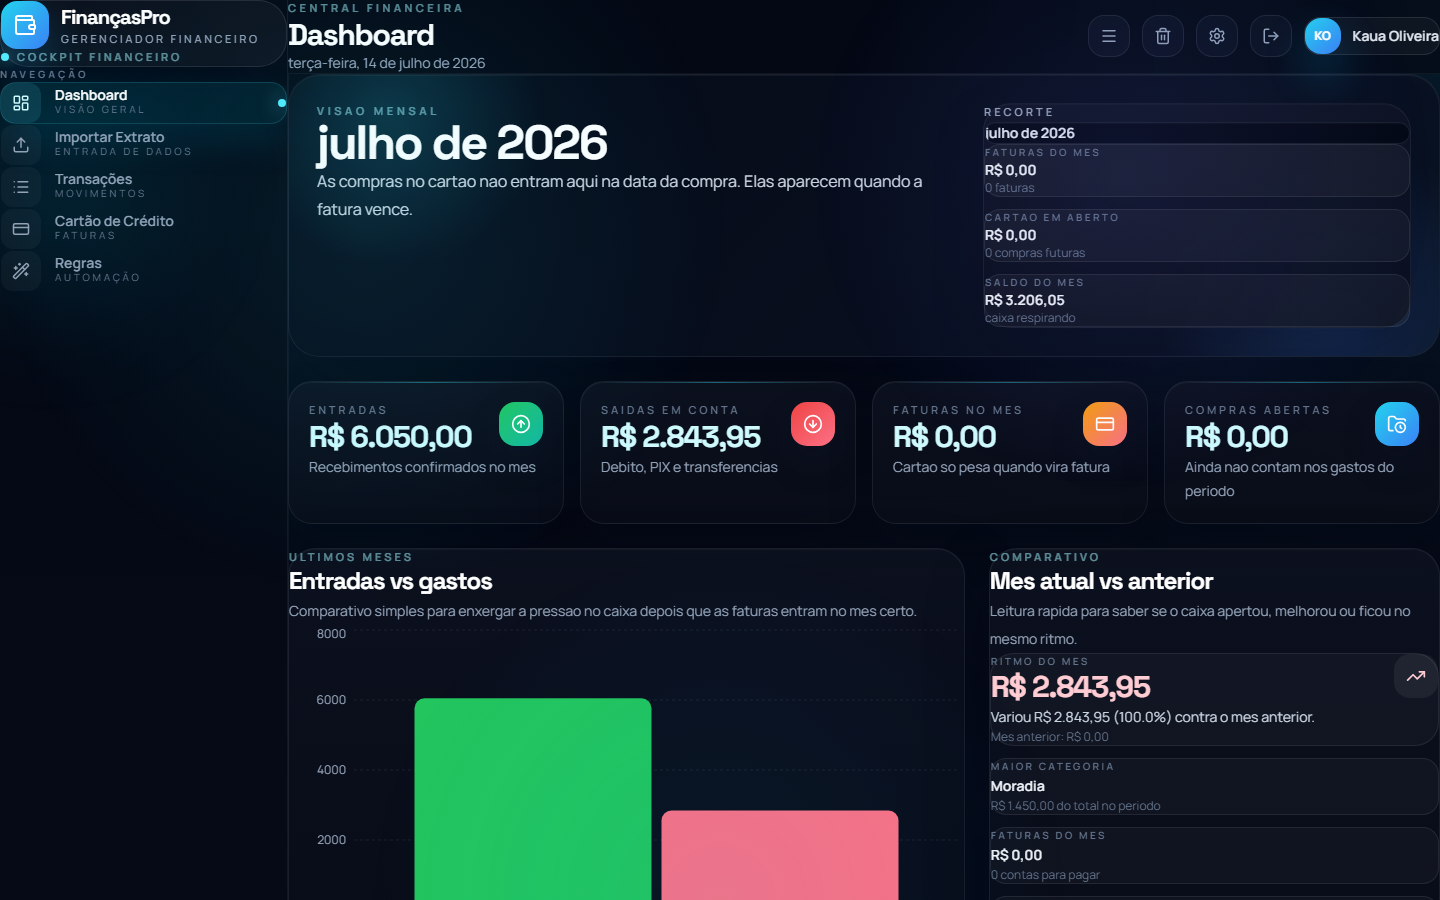
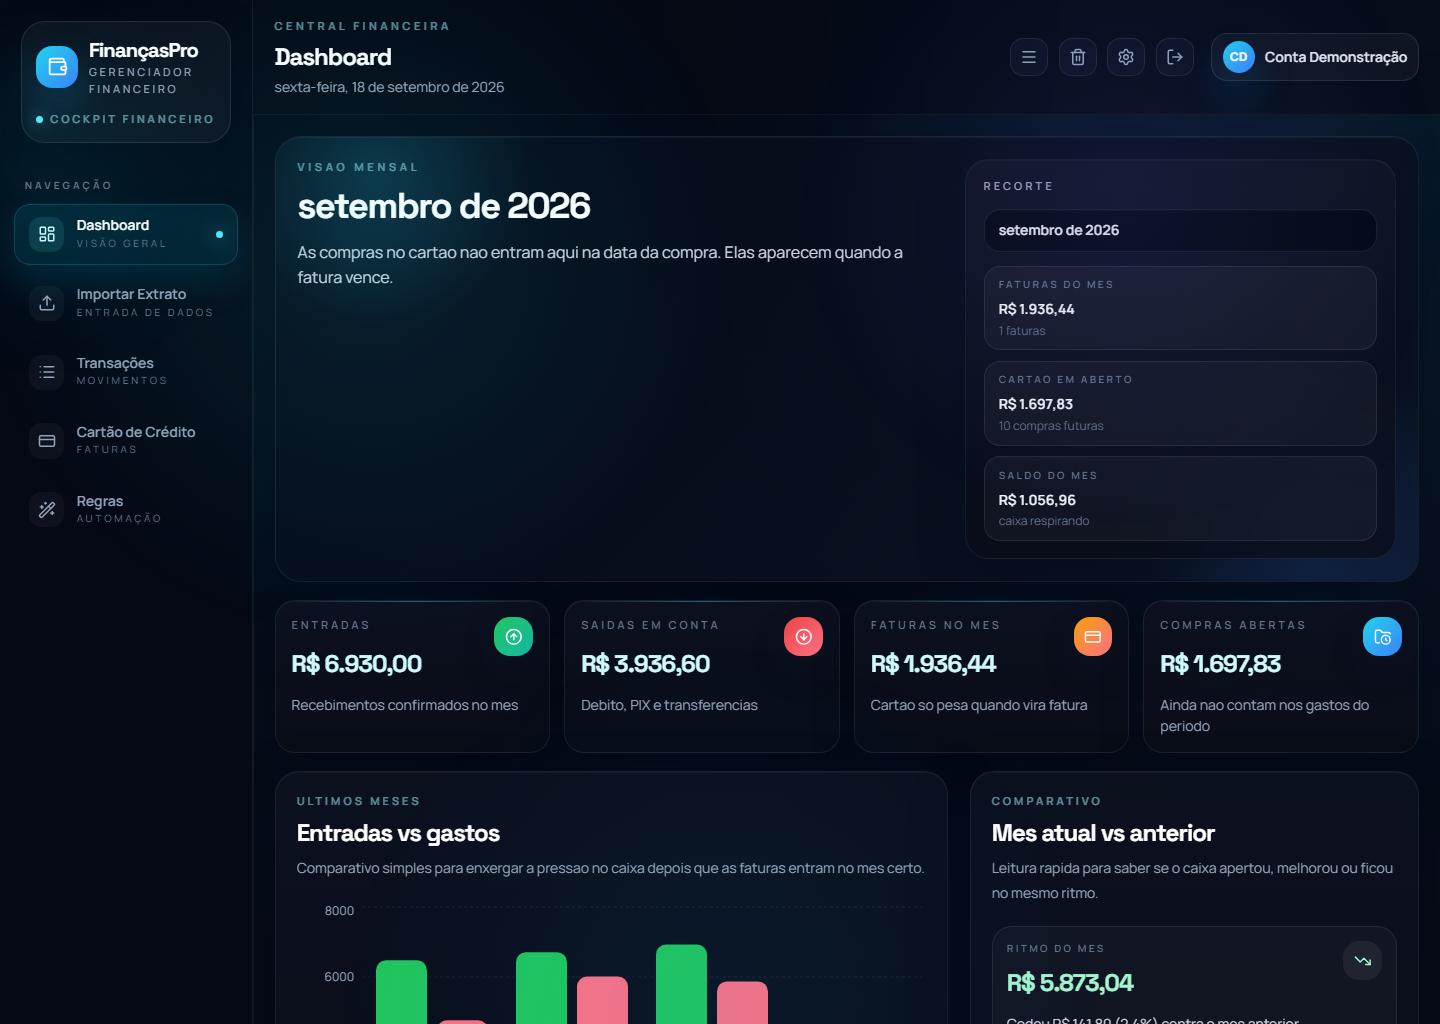
docs: gerador repetivel das capturas do README
As imagens eram de julho de 2026: mostravam o espacamento zerado, a densidade
antiga, o nome de uma conta real e nenhum sinal da importacao de fatura nem do
kit de recuperacao.

Agora `npm run screenshots` refaz docs/screenshots a partir do app atual, pela
interface: cadastra a conta de demonstracao, le as 12 palavras na tela e confirma
as 3 que o app pede, importa o extrato de exemplo, cadastra o cartao e importa a
fatura de exemplo. Se algum desses fluxos quebrar, o comando falha em vez de
gravar uma imagem errada.

Os dados de e2e-screenshots/exemplos sao inventados (comerciantes, valores e
datas), e o relogio do navegador fica preso em 18/09/2026 para as capturas nao
mudarem de mes a cada rodada e para a fatura de agosto aparecer fechada com as
compras de setembro ainda em aberto.

Fora da CI e de `npm run test:e2e`: config propria em
playwright.screenshots.config.ts, com viewport de 1440x1024 e tema escuro.
Entra tambem recovery-kit.png, com uma linha nova nos dois READMEs.

diff --git a/e2e-screenshots/capturas.spec.ts b/e2e-screenshots/capturas.spec.ts
@@ -1,0 +1,180 @@
+import { test, expect } from '@playwright/test';
+import type { Locator, Page } from '@playwright/test';
+import { dirname, join } from 'node:path';
+import { fileURLToPath } from 'node:url';
+
+/**
+ * Gerador das capturas de tela do README (docs/screenshots).
+ *
+ * Roda só com `npm run screenshots`: fica fora do `npm run test:e2e` e da CI.
+ * O fluxo é o mesmo de um usuário real — cadastra a conta de demonstração,
+ * confirma as palavras do kit, importa o extrato e a fatura de exemplo — então
+ * as imagens provam que os fluxos funcionam, não só que as telas renderizam.
+ *
+ * Todos os dados são fictícios (e2e-screenshots/exemplos). A conta é criada do
+ * zero no navegador do Playwright e some junto com ele.
+ */
+
+const AQUI = dirname(fileURLToPath(import.meta.url));
+const EXEMPLOS = join(AQUI, 'exemplos');
+const SAIDA = join(AQUI, '..', 'docs', 'screenshots');
+
+const EXTRATO = join(EXEMPLOS, 'extrato-neon-exemplo.csv');
+const FATURA = join(EXEMPLOS, 'fatura-neon-mais-exemplo.csv');
+
+// Data fixa: o app olha "hoje" para dizer se a fatura já fechou, e as capturas
+// não podem mudar de mês a cada rodada. Com o relógio preso, rodar o gerador
+// hoje ou daqui a um ano dá a mesma imagem.
+const HOJE = new Date('2026-09-18T12:00:00-03:00');
+// Mês mostrado nos painéis: tem fatura fechada (ciclo de agosto) e compras que
+// ainda não viraram gasto (ciclo de setembro, que só vence em outubro).
+const MES_EM_FOCO = '2026-09';
+
+const CONTA = 'Conta Demonstração';
+const SENHA = 'demonstracao-2026';
+
+const CARTAO = {
+  nome: 'Neon Mais',
+  fechamento: '28',
+  vencimento: '8',
+};
+
+/** Lê as 12 palavras na tela e digita as 3 que o app pede. */
+async function confirmarPalavrasDoKit(page: Page) {
+  await expect(page.locator('[data-kit-word]')).toHaveCount(12, { timeout: 15_000 });
+  const palavras = await page.locator('[data-kit-word]').allInnerTexts();
+
+  await page.getByRole('button', { name: /confirmar palavras/i }).click();
+
+  const campos = page.getByRole('textbox', { name: /palavra nº/i });
+  await expect(campos).toHaveCount(3);
+  for (const campo of await campos.all()) {
+    const posicao = Number(await campo.getAttribute('data-position'));
+    await campo.fill(palavras[posicao - 1]);
+  }
+  await page.getByRole('button', { name: /confirmar e entrar/i }).click();
+}
+
+async function irParaAba(page: Page, nome: RegExp) {
+  await page.locator('aside').getByRole('button', { name: nome }).click();
+}
+
+/**
+ * Rola até o bloco começar logo abaixo do cabeçalho do app.
+ *
+ * `scrollIntoView` sozinho erra por dois motivos: a página tem duas áreas
+ * roláveis aninhadas, e medir um cartão no meio da animação de entrada devolve
+ * a posição de quem ainda está crescendo. Por isso espera a animação, mede e
+ * corrige até assentar.
+ */
+async function trazerParaOTopo(alvo: Locator, folga = 16) {
+  await alvo.page().waitForTimeout(1_200);
+  await alvo.evaluate((elemento, folgaPx) => {
+    elemento.scrollIntoView({ block: 'start' });
+
+    for (let tentativa = 0; tentativa < 4; tentativa += 1) {
+      const cabecalho = document.querySelector('header');
+      const limite = (cabecalho?.getBoundingClientRect().bottom ?? 0) + folgaPx;
+      const sobra = elemento.getBoundingClientRect().top - limite;
+      if (Math.abs(sobra) < 2) break;
+
+      let rolavel = elemento.parentElement;
+      while (rolavel && rolavel.scrollHeight <= rolavel.clientHeight) rolavel = rolavel.parentElement;
+      if (rolavel) rolavel.scrollTop += sobra;
+      else window.scrollBy(0, sobra);
+    }
+  }, folga);
+}
+
+/**
+ * Marca como paga a fatura de um mês. O extrato de exemplo tem o débito do
+ * pagamento nas mesmas datas, então as duas telas contam a mesma história.
+ */
+async function marcarFaturaPaga(page: Page, mesDaFatura: RegExp) {
+  await page.getByRole('button').filter({ hasText: mesDaFatura }).click();
+  await page.getByRole('button', { name: /marcar como paga/i }).click();
+  await expect(page.getByRole('button', { name: /marcar como pendente/i })).toBeVisible();
+}
+
+/** Espera o que estiver animando (fade-in, gráfico) antes de fotografar. */
+async function capturar(page: Page, arquivo: string) {
+  await page.waitForTimeout(1_500);
+  await page.screenshot({ path: join(SAIDA, arquivo), animations: 'disabled' });
+}
+
+test.describe('Capturas do README', () => {
+  test('gera as cinco imagens com a conta de demonstração', async ({ page }) => {
+    await page.clock.setFixedTime(HOJE);
+    await page.goto('/');
+    await page.evaluate(() => localStorage.clear());
+    await page.reload();
+
+    // --- Cadastro da conta de demonstração ---
+    await expect(page.getByRole('heading', { name: /criar conta/i })).toBeVisible();
+    await page.getByPlaceholder(/ex:/i).fill(CONTA);
+    await page.getByPlaceholder(/crie uma senha/i).fill(SENHA);
+    await page.getByPlaceholder(/repita a senha/i).fill(SENHA);
+    await page.getByRole('button', { name: /criar conta/i }).click();
+
+    // A frase deste kit é gerada agora e morre com o navegador de teste.
+    await expect(page.getByRole('heading', { name: /kit de recupera/i })).toBeVisible();
+    await expect(page.locator('[data-kit-word]')).toHaveCount(12, { timeout: 15_000 });
+    await capturar(page, 'recovery-kit.png');
+
+    await confirmarPalavrasDoKit(page);
+    await expect(page.getByText(/central financeira/i)).toBeVisible({ timeout: 15_000 });
+
+    // --- Importação do extrato bancário ---
+    await irParaAba(page, /importar extrato/i);
+    await page.getByTitle('Escolher banco').click();
+    await page.getByTitle('Selecionar Neon').click();
+    await page.locator('input[aria-label="Selecionar arquivo para importar"]').setInputFiles(EXTRATO);
+
+    const previaExtrato = page.getByRole('heading', { name: /pré-visualização/i });
+    await expect(previaExtrato).toBeVisible({ timeout: 15_000 });
+    // A graça da tela é a tabela categorizada, não a área de upload.
+    await trazerParaOTopo(page.locator('.glass').filter({ has: previaExtrato }));
+    await capturar(page, 'import.png');
+
+    await page.getByRole('button', { name: /^importar$/i }).click();
+    await expect(page.getByRole('status')).toContainText(/transações importadas/i);
+
+    // --- Cadastro do cartão e importação da fatura ---
+    await irParaAba(page, /cartão de crédito/i);
+    await page.getByRole('button', { name: /importar fatura/i }).click();
+    await page.getByRole('button', { name: /cadastrar cartão/i }).click();
+
+    await page.getByPlaceholder(/ex: neon principal/i).fill(CARTAO.nome);
+    await page.getByLabel(/dia de fechamento/i).fill(CARTAO.fechamento);
+    await page.getByLabel(/dia de vencimento/i).fill(CARTAO.vencimento);
+    await page.getByRole('button', { name: /salvar cart/i }).click();
+
+    await page.locator('input[type="file"]').first().setInputFiles(FATURA);
+    const confirmarFatura = page.getByRole('button', { name: /confirmar importação/i });
+    await expect(confirmarFatura).toBeVisible({ timeout: 15_000 });
+    await confirmarFatura.click();
+    await expect(page.getByRole('status')).toContainText(/compras importadas/i);
+
+    await page.getByRole('button', { name: /fechar importação/i }).click();
+
+    // Os três pagamentos que já aparecem no extrato importado.
+    await marcarFaturaPaga(page, /fatura de julho de 2026/i);
+    await marcarFaturaPaga(page, /fatura de agosto de 2026/i);
+    await marcarFaturaPaga(page, /fatura de setembro de 2026/i);
+    await page.getByRole('button').filter({ hasText: /fatura de setembro de 2026/i }).click();
+
+    await page.locator('select.dashboard-select').selectOption(MES_EM_FOCO);
+    await trazerParaOTopo(page.locator('section').filter({ hasText: /onde a fatura pesa/i }).first());
+    await capturar(page, 'credit-card.png');
+
+    // --- Painel ---
+    await irParaAba(page, /dashboard/i);
+    await page.locator('select.dashboard-select').selectOption(MES_EM_FOCO);
+    await capturar(page, 'dashboard.png');
+
+    // --- Login (a conta já existe, então a tela mostra o estado real) ---
+    await page.getByTitle('Sair').click();
+    await expect(page.getByRole('heading', { name: /entrar/i })).toBeVisible();
+    await capturar(page, 'login.png');
+  });
+});

diff --git a/playwright.screenshots.config.ts b/playwright.screenshots.config.ts
@@ -1,0 +1,33 @@
+import { defineConfig } from '@playwright/test';
+
+// Gerador das capturas do README (docs/screenshots), em e2e-screenshots/.
+// Fora da CI e fora do `npm run test:e2e`: roda sozinho com `npm run screenshots`.
+// Sem variáveis do Supabase, então o app sobe em modo local, como no build publicado.
+export default defineConfig({
+  testDir: './e2e-screenshots',
+  timeout: 180_000,
+  retries: 0,
+  workers: 1,
+  use: {
+    baseURL: 'http://localhost:4175',
+    headless: true,
+    // Desktop, mesmo tamanho para todas as imagens.
+    viewport: { width: 1440, height: 1024 },
+    deviceScaleFactor: 1,
+    // O app segue o prefers-color-scheme do sistema e o tema escuro é o do README.
+    // Sem isto o Chromium do Playwright pede tema claro e as capturas saem misturadas.
+    colorScheme: 'dark',
+    locale: 'pt-BR',
+    timezoneId: 'America/Sao_Paulo',
+    // O service worker guardaria arquivos antigos e a captura mostraria o app de ontem.
+    serviceWorkers: 'block',
+  },
+  webServer: {
+    // Build próprio: as capturas têm que sair do app como ele está agora.
+    command: 'npm run build && npx vite preview --port 4175 --strictPort',
+    port: 4175,
+    reuseExistingServer: false,
+    timeout: 240_000,
+  },
+  projects: [{ name: 'chromium', use: { browserName: 'chromium' } }],
+});

diff --git a/README.md b/README.md
@@ -16,7 +16,11 @@ O app roda **100% no navegador por padrão**: sem conta, sem servidor, sem telem
 |---|---|
 | ![Importar extrato com categorização automática](docs/screenshots/import.png) | ![Módulo de cartão de crédito](docs/screenshots/credit-card.png) |
 
-As capturas são de julho de 2026 e ainda não mostram a importação de fatura, o kit de recuperação nem a densidade atual da interface.
+| Kit de recuperação |
+|---|
+| ![Kit de recuperação com as 12 palavras e o id do kit](docs/screenshots/recovery-kit.png) |
+
+As imagens saem do app de verdade, com dados de exemplo inventados: `npm run screenshots` cadastra uma conta de demonstração, importa o extrato e a fatura de exemplo e refaz as cinco capturas. O roteiro e os arquivos de exemplo estão em [`e2e-screenshots/`](e2e-screenshots).
 
 ## Por que é diferente
 
@@ -76,6 +80,7 @@ A tela de entrada passa a pedir **e-mail**. Se ela continuar pedindo nome e senh
 | `npm run test:e2e` | Playwright no modo local |
 | `npm run test:e2e:cloud` | Playwright no modo nuvem contra um Supabase simulado (`e2e-cloud/mockSupabase.ts`); não roda na CI |
 | `npm run check:bundle` | Confere a pasta `dist`; com `-- --expect-local`, também exige que não haja código de nuvem |
+| `npm run screenshots` | Regera as capturas de `docs/screenshots` com dados de exemplo (`e2e-screenshots/`); não roda na CI |
 
 A CI (GitHub Actions) roda lint, testes unitários, build, `check:bundle -- --expect-local` e o Playwright do modo local.
 

diff --git a/README.en.md b/README.en.md
@@ -18,7 +18,11 @@ The app interface is in Brazilian Portuguese; UI labels below are quoted as they
 |---|---|
 | ![Statement import with automatic categorization](docs/screenshots/import.png) | ![Credit card module](docs/screenshots/credit-card.png) |
 
-The screenshots are from July 2026 and don't show invoice import, the recovery kit, or the current UI density yet.
+| Recovery kit |
+|---|
+| ![Recovery kit with the 12 words and the kit id](docs/screenshots/recovery-kit.png) |
+
+The images come from the real app, with made-up sample data: `npm run screenshots` registers a demo account, imports the sample statement and the sample invoice, and regenerates all five captures. The script and the sample files live in [`e2e-screenshots/`](e2e-screenshots).
 
 ## Why it's different
 
@@ -78,6 +82,7 @@ The entry screen now asks for an **email**. If it still asks for a name and a pa
 | `npm run test:e2e` | Playwright in local mode |
 | `npm run test:e2e:cloud` | Playwright in cloud mode against a simulated Supabase (`e2e-cloud/mockSupabase.ts`); not part of CI |
 | `npm run check:bundle` | Checks the `dist` folder; with `-- --expect-local`, also requires that no cloud code is present |
+| `npm run screenshots` | Regenerates the `docs/screenshots` images with sample data (`e2e-screenshots/`); not part of CI |
 
 CI (GitHub Actions) runs lint, unit tests, build, `check:bundle -- --expect-local`, and the local-mode Playwright suite.
 

diff --git a/e2e-screenshots/README.md b/e2e-screenshots/README.md
@@ -1,0 +1,23 @@
+# Capturas do README
+
+`npm run screenshots` refaz as imagens de `docs/screenshots/` usadas nos dois READMEs.
+
+O roteiro (`capturas.spec.ts`) sobe um build novo do app em modo local e faz o caminho de um
+usuário: cadastra a conta de demonstração, confirma as 3 palavras do kit de recuperação, importa o
+extrato de exemplo, cadastra o cartão e importa a fatura de exemplo. Se algum desses fluxos
+quebrar, o comando falha em vez de gerar uma imagem errada.
+
+| Arquivo | O que é |
+|---|---|
+| `exemplos/extrato-neon-exemplo.csv` | Extrato de conta de julho a setembro de 2026 |
+| `exemplos/fatura-neon-mais-exemplo.csv` | Fatura de cartão de maio a setembro de 2026 |
+
+Os dados são inventados: comerciantes, valores e datas não vêm de extrato nenhum. A conta de
+demonstração é criada do zero no navegador do Playwright, e a frase do kit que aparece na captura
+morre junto com ele.
+
+O relógio do navegador fica preso em 18/09/2026 para as imagens não mudarem a cada rodada — o app
+olha a data de hoje para saber se a fatura já fechou.
+
+Este gerador **não** faz parte da CI nem de `npm run test:e2e`: ele tem config própria
+(`playwright.screenshots.config.ts`) e roda sob demanda.
